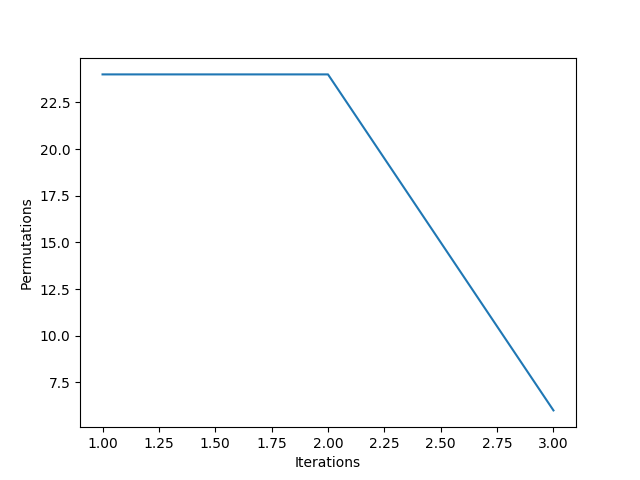
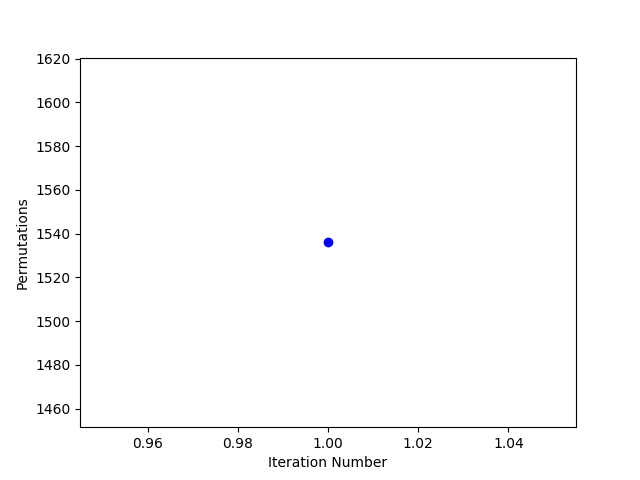
increase graph readability, update permutation calculation

diff --git a/dreamers/solver.py b/dreamers/solver.py
@@ -45,9 +45,9 @@ def create_graph(values):
     iteration_nums = [x for x, _ in values]
     permutation_vals = [y for _, y in values]
 
-    plt.plot(iteration_nums, permutation_vals)
+    plt.plot(iteration_nums, permutation_vals ,'-bo')
     plt.ylabel('Permutations')
-    plt.xlabel('Iterations')
+    plt.xlabel('Iteration Number')
 
     plt.savefig('graph.png')
 
@@ -89,7 +89,7 @@ def generate_solutions(digits, target):
             if total == target:
                 answers.add((total, string))
             string = ""
-    return answers
+    return answers, len(op_set), len(combos)
 
 
 def format_results(results, inputs, perms, total):
@@ -122,17 +122,17 @@ def main():
     
     # Set up counter to track iteration number and permutations for graphing
     count = 1
-    initial_perm = len(num_perms(initial_input))
-    graph_perms.append((count, initial_perm))
 
     # Perform calculation for inputs: 1, 3, 4, 6 and total: 24
     start = time.time()
-    results = generate_solutions(initial_input, initial_total)
+    results, perms, ops = generate_solutions(initial_input, initial_total)
     stop = time.time()
+    total_perms = perms * ops
+    graph_perms.append((count, total_perms))
 
     # Format results for user readability
     format_results(
-        results, initial_input, initial_perm, initial_total)
+        results, initial_input, total_perms, initial_total)
     duration = stop - start
     times.append(duration)
     print("This iteration took {} seconds".format(duration))
@@ -164,25 +164,30 @@ def main():
         
         # Perform calculation for specified user inputs and total
         start = time.time()
-        results = generate_solutions(numbers, total)
+        results, perms, ops = generate_solutions(numbers, total)
         stop = time.time()
                         
         # Track iteration and permutations for graphing and times
         count += 1
-        perms = len(num_perms(numbers))
         duration = stop - start
         times.append(duration)
-        graph_perms.append((count, perms))
+
+        total_perms = perms * ops
+        graph_perms.append((count, total_perms))
         
         print("This iteration took {} seconds".format(duration))
         
         # Format results for user readability
-        format_results(results, numbers, perms, total)
+        format_results(results, numbers,total_perms, total)
 
     avg_time = sum(times) / float(len(times))
     print("The average time per iteration was: {} seconds".format(avg_time))
 
     create_graph(graph_perms)
+    print(
+        "The Permutation Graph is located in the 'graph.png' file in this",
+        "directory.",
+    )
 
 
 main()
